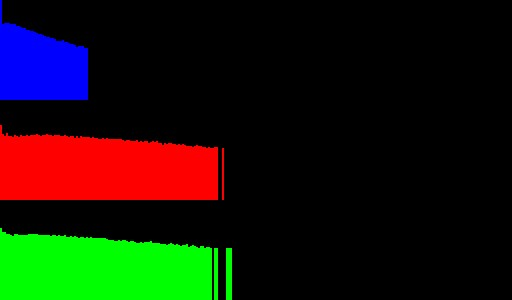
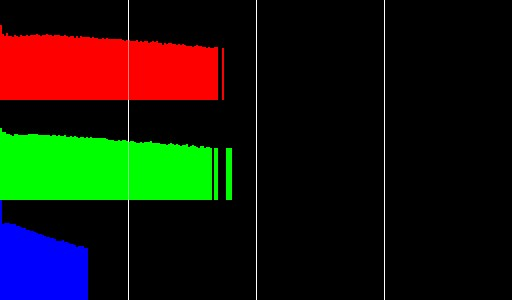
dominant colors determined using k-means algorithm

Changed region(s): [[0.0, 0.42, 0.4688, 1.0], [0.0, 0.0, 0.4375, 0.36]]

diff --git a/apply_color_test/report.html b/apply_color_test/report.html
@@ -11,26 +11,6 @@
 </tr>
 <tr>
    <td>
-     <img src="storm.jpg" width="256px" height="256px" /> <p>source     :: Lm=[0.586747, 0.065118, -0.000005]  Ls=[0.429995, 0.067082 0.002773]</p>
-  </td>
-  <td>
-     <img src="source.jpg" width="256px" height="256px" /> <p>destination:: Lm=[0.777979, 0.021576, -0.018608]  Ls=[0.343211, 0.241523 0.007391]</p>
-  </td>
-  <td>
-    <img src="reinhard2001/storm.jpg-source.jpg-result.jpg" width="256px" height="256px" /> <p>result     :: Lm=[0.585583, 0.064276, -0.000172]  Ls=[0.426133, 0.066180 0.002681]</p>
-  </td>
-  <td>
-    <img src="reinhard2001/storm.jpg-histogram.jpg" width="256px" height="256px" />
-  </td>
-  <td>
-    <img src="reinhard2001/source.jpg-histogram.jpg" width="256px" height="256px" /> 
-  </td>
-  <td>
-    <img src="reinhard2001/storm.jpg-source.jpg-histogram.jpg" width="256px" height="256px" />
-  </td>
-</tr>
-<tr>
-   <td>
      <img src="les_modry.jpg" width="256px" height="256px" /> <p>source     :: Lm=[0.552773, -0.043242, -0.012934]  Ls=[0.388019, 0.025969 0.007628]</p>
   </td>
   <td>
@@ -71,13 +51,13 @@
 </tr>
 <tr>
    <td>
-     <img src="fantasy.jpg" width="256px" height="256px" /> <p>source     :: Lm=[0.292439, 0.008628, 0.005774]  Ls=[0.312064, 0.081873 0.012773]</p>
+     <img src="fantasy.jpg" width="256px" height="256px" /> <p>source     :: Lm=[-nan, -nan, -nan]  Ls=[-nan, -nan -nan]</p>
   </td>
   <td>
      <img src="dest.jpg" width="256px" height="256px" /> <p>destination:: Lm=[0.507971, 0.025031, 0.013698]  Ls=[0.311091, 0.053223 0.006181]</p>
   </td>
   <td>
-    <img src="reinhard2001/fantasy.jpg-dest.jpg-result.jpg" width="256px" height="256px" /> <p>result     :: Lm=[0.295985, 0.011242, 0.005600]  Ls=[0.306173, 0.078226 0.012612]</p>
+    <img src="reinhard2001/fantasy.jpg-dest.jpg-result.jpg" width="256px" height="256px" /> <p>result     :: Lm=[0.000000, 0.000000, 0.000000]  Ls=[0.000000, 0.000000 0.000000]</p>
   </td>
   <td>
     <img src="reinhard2001/fantasy.jpg-histogram.jpg" width="256px" height="256px" />
@@ -91,13 +71,13 @@
 </tr>
 <tr>
    <td>
-     <img src="darkforest.jpg" width="256px" height="256px" /> <p>source     :: Lm=[0.379668, 0.014634, 0.008010]  Ls=[0.156668, 0.046742 0.014346]</p>
+     <img src="darkforest.jpg" width="256px" height="256px" /> <p>source     :: Lm=[-nan, -nan, -nan]  Ls=[-nan, -nan -nan]</p>
   </td>
   <td>
      <img src="dest.jpg" width="256px" height="256px" /> <p>destination:: Lm=[0.507971, 0.025031, 0.013698]  Ls=[0.311091, 0.053223 0.006181]</p>
   </td>
   <td>
-    <img src="reinhard2001/darkforest.jpg-dest.jpg-result.jpg" width="256px" height="256px" /> <p>result     :: Lm=[0.376283, 0.014636, 0.008010]  Ls=[0.156684, 0.046757 0.014347]</p>
+    <img src="reinhard2001/darkforest.jpg-dest.jpg-result.jpg" width="256px" height="256px" /> <p>result     :: Lm=[0.000000, 0.000000, 0.000000]  Ls=[0.000000, 0.000000 0.000000]</p>
   </td>
   <td>
     <img src="reinhard2001/darkforest.jpg-histogram.jpg" width="256px" height="256px" />

diff --git a/kmeans.c b/kmeans.c
@@ -1,0 +1,84 @@
+#include "kmeans.h"
+#include "xmalloc.h"
+#include <float.h>
+
+#define MAX_ITERATIONS 100
+#define EPSILON 0.001
+
+/**
+ * Compute most dominant colors using kmeans algorithm.
+ *
+ * @param layer layer to compute most dominant colors
+ * @param zone  zone to operate on
+ * @param n     how many dominant colors to output
+ * @param result resulting pre-allocated vector storing colors.
+ */
+void kmeans(layer_t layer, rect_t zone, size_t n, vec3 *result) {
+   vec3 *new_means_sum = xmalloc(n*sizeof(vec3));
+   size_t *sums = xmalloc(n*sizeof(size_t));
+
+   for(int i=0; i<n; i++) {
+      sums[i] = 0;
+      new_means_sum[i] = vec3_init(0.0f, 0.0f, 0.0f);
+      result[i] = vec3_init(
+         (float)rand() / (float)RAND_MAX,
+         (float)rand() / (float)RAND_MAX,
+         (float)rand() / (float)RAND_MAX
+      );
+   }
+   color_t *image = layer.image;
+   int width = layer.width;
+   int height = layer.height;
+   int color_components = layer.color_components;
+  if (zone.maxy==0) return;
+
+  if (zone.minx<0) zone.minx=0;
+  if (zone.miny<0) zone.miny=0;
+  if (zone.maxx>=width) zone.maxx=width;
+  if (zone.maxy>=height) zone.maxy=height;
+  for(int iteration = 0; iteration < MAX_ITERATIONS; iteration++) {
+    printf("k-means iteration: %d\n", iteration);
+#pragma omp parallel for
+    for(int y=zone.miny; y<zone.maxy; y++)  {
+      for(int x=zone.minx; x<zone.maxx; x++) {
+         int idx = y*width*color_components + x*color_components;
+         color_t r, g, b;
+         r = image[idx];
+         g = image[idx+1];
+         b = image[idx+2];
+       
+         vec3 v = vec3_init((float)r/COLOR_MAX, (float)g/COLOR_MAX, (float)b/COLOR_MAX);
+         float max_dist = FLT_MAX;
+         int category = 0;
+         for(int j=0; j<n; j++) {
+           float d = vec3_dist(v, result[j]);
+           if (d < max_dist) {
+             max_dist = d;
+             category = j;
+           }
+         }
+         new_means_sum[category] = vec3_add(new_means_sum[category], v);
+         sums[category] ++;
+      }
+    }
+    float delta = 0.0f;
+    for(int j=0; j<n; j++) {
+      printf("sums[%d]=%ld\n", j, sums[j]);
+      if(sums[j] != 0 ) {
+        new_means_sum[j].x /= sums[j];
+        new_means_sum[j].y /= sums[j];
+        new_means_sum[j].z /= sums[j];
+        delta += vec3_dist(new_means_sum[j], result[j]);
+        printf("delta=%f\n", delta);
+        result[j].x = new_means_sum[j].x;
+        result[j].y = new_means_sum[j].y;
+        result[j].z = new_means_sum[j].z;
+      }
+      new_means_sum[j].x = 0.0f;
+      new_means_sum[j].y = 0.0f;
+      new_means_sum[j].z = 0.0f;
+      sums[j] = 0;
+    }
+    if (delta < EPSILON) return;
+  }
+}

diff --git a/shapes.c b/shapes.c
@@ -43,6 +43,34 @@ void draw_pixel(layer_t layer, vec3 color, float opacity, int x, int y, blend_mo
    image[idx+2] = COLOR_MAX * blend.z;
 }
 
+void draw_filled_rect(layer_t layer, vec3 color, float opacity, rect_t rect, blend_mode_func_t blend_func) 
+{
+   color_t *image = layer.image;
+   int width = layer.width;
+   int color_components = layer.color_components;
+
+   int minx = rect.minx < layer.zone.minx ? layer.zone.minx : rect.minx;
+   int miny = rect.miny < layer.zone.miny ? layer.zone.miny : rect.miny;
+   int maxx = rect.maxx >= layer.zone.maxx ? layer.zone.maxx-1 : rect.maxx;
+   int maxy = rect.maxy >= layer.zone.maxy ? layer.zone.maxy-1 : rect.maxy;
+
+   for(int y = miny; y<=maxy; y++) 
+   for(int x = minx; x<=maxx; x++) {
+       int idx;
+       vec3 source_pixel, blend;
+       if (rect.minx >= layer.zone.minx) {
+         idx = y*width*color_components + x*color_components;
+         source_pixel = vec3_init(image[idx]/(float)COLOR_MAX, image[idx+1]/(float)COLOR_MAX, image[idx+2]/(float)COLOR_MAX);
+         blend = blend_func(color, source_pixel, opacity);
+         image[idx] = COLOR_MAX * blend.x;
+         image[idx+1] = COLOR_MAX * blend.y;
+         image[idx+2] = COLOR_MAX * blend.z;
+       }
+   }
+ 
+}
+
+
 void draw_rect(layer_t layer, vec3 color, float opacity, rect_t rect, blend_mode_func_t blend_func)
 {
    color_t *image = layer.image;

diff --git a/llist.c b/llist.c
@@ -1,0 +1,38 @@
+#include <stdio.h>
+#include "llist.h"
+#include "xmalloc.h"
+
+static void allocate_next_chunk(node_t *start);
+
+node_t *llist_init() {
+   node_t *start = xmalloc(sizeof(node_t));
+   start->size = 0;
+   start->next = NULL;
+   start->current = start;
+   return start;
+}
+
+void llist_add(node_t *start, vec3 element) {
+   if (start -> current -> size >= ELEMENTS_SZ )  {
+       allocate_next_chunk(start);
+   }
+   start -> current -> array[start -> current -> size] = element;
+   start -> current -> size ++;
+}
+
+void llist_walk(node_t *start, walkfunc_t walkfunc)
+{
+   node_t *current = start;
+   while(current != NULL) {
+     for(int i=0; i<current -> size; i++) {
+        walkfunc(current->array[i]);
+     }
+     current = current->next;
+   }
+}
+
+static void allocate_next_chunk(node_t *start) {
+   node_t *next = llist_init();
+   start -> current -> next = next;
+   start -> current = next;
+}

diff --git a/examples/dominant_colors.c b/examples/dominant_colors.c
@@ -1,0 +1,37 @@
+#include <stdio.h>
+#include <stdlib.h>
+
+#include <jpeg.h>
+#include <kmeans.h>
+#include "shapes.h"
+
+int main(int argc, char *argv[]) {
+  /**
+   * Read the source image to take the tonality from
+   */
+  layer_t source = read_JPEG_file(argv[1]);
+  layer_info(source);
+
+  /**
+   * Store the most dominant colors here.
+   */
+  vec3 dominant_colors[5];
+
+  /**
+   * Compute dominant colors using k-means.
+   */
+  kmeans(source, source.zone, 5, dominant_colors);
+
+  /**
+   * Print and draw dominant colors.
+   */
+  layer_t colors = layer_new_dim(5*256, 256, 3, False, False);
+  for(int i=0; i<5; i++) {
+     vec3_info(dominant_colors[i]);
+     rect_t shape = {i*256, 0, i*256+255, 255};
+     draw_filled_rect(colors, dominant_colors[i], 1.0f, shape, blend_normal);
+  }
+  write_JPEG_file("dominant-colors.jpg", colors, 90);
+
+  return 0;
+}

diff --git a/llist.h b/llist.h
@@ -1,0 +1,30 @@
+#ifndef __IM_LLIST_H__
+#define __IM_LLIST_H__
+
+#include "common.h"
+
+#ifdef __cplusplus
+extern "C" {
+#endif
+
+#define ELEMENTS_SZ 1024
+
+typedef struct node {
+  vec3 array[ELEMENTS_SZ];
+  size_t size;
+  struct node *next;
+  struct node *current;
+} node_t; 
+
+typedef void (*walkfunc_t)(vec3 element);
+
+
+node_t *llist_init();
+void llist_add(node_t *start, vec3 element);
+void llist_walk(node_t *start, walkfunc_t walkfunc);
+
+
+#ifdef __cplusplus
+}
+#endif
+#endif /* __IM_LLIST_H__ */

diff --git a/shapes.h b/shapes.h
@@ -14,6 +14,7 @@ void draw_circle(layer_t layer, vec3 color, float opacity, int x, int y, int r, 
 void draw_pixel(layer_t layer, vec3 color, float opacity, int x, int y, blend_mode_func_t b);
 void draw_rect(layer_t layer, vec3 color, float opacity, rect_t rect, blend_mode_func_t b);
 vec3 get_pixel(layer_t layer, int x, int y);
+void draw_filled_rect(layer_t layer, vec3 color, float opacity, rect_t rect, blend_mode_func_t blend_func);
 
 #ifdef __cplusplus
 }

diff --git a/examples/apply_color_reinhard2001.c b/examples/apply_color_reinhard2001.c
@@ -17,7 +17,7 @@ static void save_histogram(const char *filename, layer_t layer)
 {
 
   layer_t hist_layer = layer_new_dim(512, 300, 3, false, false);
-  histogram_t h = histogram_from_layer(layer, LAB, layer.zone);
+  histogram_t h = histogram_from_layer(layer, RGB, layer.zone);
   histogram_draw(hist_layer, h, true);
   write_JPEG_file(filename, hist_layer, 90);
   layer_free(hist_layer);

diff --git a/kmeans.h b/kmeans.h
@@ -1,0 +1,16 @@
+#ifndef __IM_KMEANS_H__
+#define __IM_KMEANS_H__ 
+
+#include "layer.h"
+
+#ifdef __cplusplus
+extern "C" {
+#endif
+
+void kmeans(layer_t layer, rect_t zone, size_t n, vec3 *result);
+
+#ifdef __cplusplus
+}
+#endif
+
+#endif /* __IM_KMEANS_H__ */

diff --git a/common.c b/common.c
@@ -2,6 +2,11 @@
 
 #include <stdio.h>
 
+float vec3_dist(vec3 a, vec3 b)
+{
+  return (a.x - b.x)*(a.x - b.x) + (a.y - b.y)*(a.y - b.y) + (a.z - b.z)*(a.z - b.z);
+}
+
 void vec3_info(vec3 v)
 {
   fprintf(stderr, "v=[%f %f %f]\n", v.x, v.y, v.z);

diff --git a/common.h b/common.h
@@ -8,6 +8,7 @@
 extern "C" {
 #endif
 
+float vec3_dist(vec3 a, vec3 b);
 void vec3_info(vec3 v);
 vec3 vec3_clamp(vec3 v, float minr, float maxr);
 vec3 vec3_add3(vec3 u, vec3 v, vec3 w);
